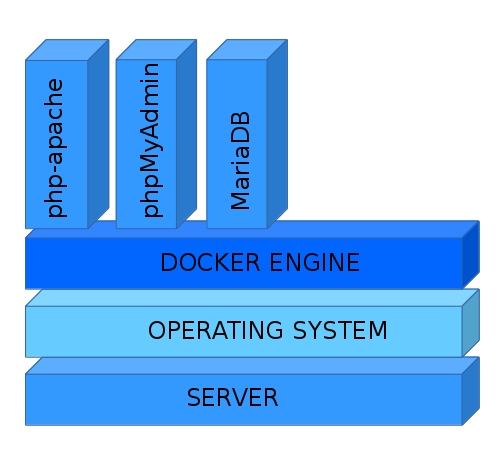
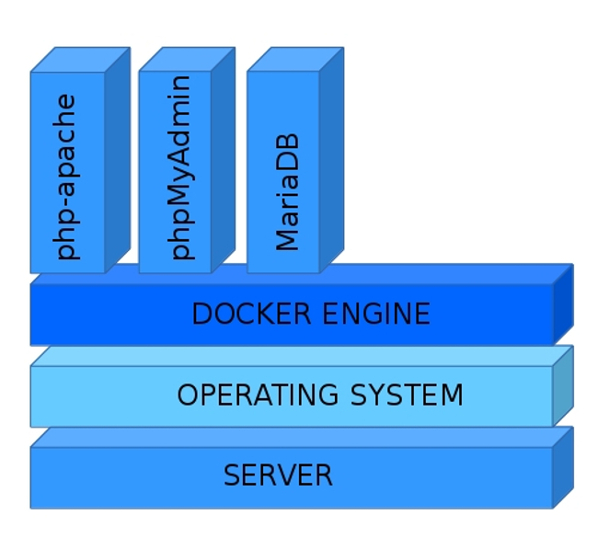
- changes presentation.html

diff --git a/presentation/presentation.html b/presentation/presentation.html
@@ -30,10 +30,11 @@
 
                 <div>
                     <p>
-                        1. Design decisions<br>
-                        2. Getting data<br>
-                        3. Adding extensions<br>
-                        4. Future work<br>
+                        1. Motivation<br>
+                        2. Design decisions<br>
+                        3. Getting data<br>
+                        4. Adding extensions<br>
+                        5. Future work<br>
                     </p>
                 </div>
             </section>
@@ -41,19 +42,33 @@
 
         <section data-background="background.jpg" data-transition-speed="fast">
 
+            <section>
+                <h2>1. Motivation</h2>
+
+                <p> Own web platform for small internet-of-things devices </p>
+
+            </section>
+
 
             <section>
-                <h2>Design decisions</h2>
+                <h2>2. Design decisions</h2>
 
+                <ul>
+                    <li>Webframework with php, javascript + apache + mariadb</li>
+                    <li>Dockerized application development</li>
+                    <li>Collaborative workflow with git</li>
+                    <li>Cheap microcontroller with arduino library support</li></l>
+
+                </ul>
             </section>
 
 
             <section>
                 <h2>Dockerized development environment</h2>
 
-                <div style="position:relative; width:800px; height:600px; margin:0 auto;">
-                    <img class="fragment" src="./images/docker.jpg" style="position:absolute;top:0;left:0;" />
-                    <img class="fragment" src="./images/docker2.jpg" style="position:absolute;top:0;left:0;" />
+                <div style="position:relative; width:800px; height:650px; margin:0 auto;">
+                    <img class="fragment" src="./images/docker.jpg" style="position:absolute;top:-20px;left:80px;" />
+                    <img class="fragment" src="./images/docker2.jpg" style="position:absolute;top:-20px;left:80px;" />
                 </div>
 
             </section>
@@ -65,7 +80,7 @@
         <section data-background="background.jpg" data-transition-speed="fast">
 
             <section>
-                <h2>2. Getting data</h2>
+                <h2>3. Getting data</h2>
             </section>
 
         </section>
@@ -74,7 +89,7 @@
 
             <section>
 
-                <h2>3. Adding extensions</h2>
+                <h2>4. Adding extensions</h2>
 
             </section>
         </section>
@@ -86,7 +101,7 @@
 
             <section>
 
-                <h2>4. Future work</h2>
+                <h2>5. Future work</h2>
 
 
                 <ul>
